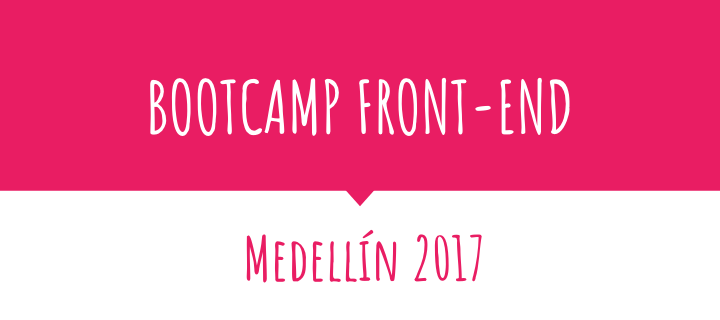
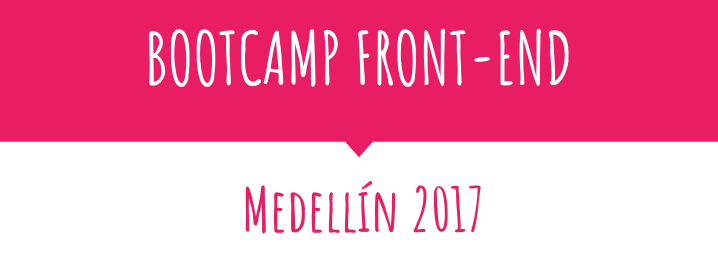
add principal images

Changed region(s): [[0.1838, 0.086, 0.7967, 0.4301], [0.0, 0.4875, 1.0, 0.8889]]

diff --git a/README.md b/README.md
@@ -1,13 +1,14 @@
-![Imagen 1][1]
-## 👩 Estefany Aguilar R.
+<p align="center">
+  <a>
+    <img width=100% src="./bootcamp.png">
+  </a>
+</p>
 
+<p align="center">
+  Este Bootcamp Front-end es ofrecido por ___World Tech Makers Academy S.A.S___, quien ofrece cursos presenciales y virtuales de formación académica no formal sobre desarrollo de técnicas de programación.
+</p>
 
-
-Este Bootcamp Front-end es ofrecido por ___World Tech Makers Academy S.A.S___, quien ofrece cursos presenciales y virtuales de formación académica no formal sobre desarrollo de técnicas de programación.
-
-------
-
-### 📆 Fechas:
+## 📆 Fechas:
 
 ___Semana___ | ___Fecha___ | ___Temas___
 :--: | :--: | :--:
@@ -21,18 +22,16 @@ ___Semana___ | ___Fecha___ | ___Temas___
 8 | Del 14 agosto al 19 agosto |
 9 | Del 22 agosto al 26 agosto |
 
-------
 
-### 💜 Slides:
+## 💜 Slides:
 
 > <https://goo.gl/wTAkbm>
 
-------
+## 👏 Agradecimientos:
 
-### 👏 Agradecimientos:
-
-![Imagen 1][2]  ![Imagen 2][3]
-
- [1]: ./bootcamp.png
- [2]: ./img/WTM.png
- [3]: ./img/Alcaldía_SDE.jpg
+<p align="center">
+  <a>
+    <img width=50% src="./WTM.png">
+    <img width=35% src="./Alcaldía_SDE.jpg">
+  </a>
+</p>
